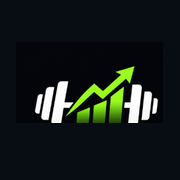
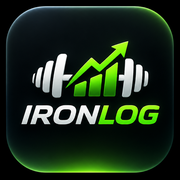
Add files via upload

diff --git a/index.html b/index.html
@@ -1,12 +1,5 @@
-<!doctype html><html lang="en"><head><meta charset="UTF-8"><meta name="viewport" content="width=device-width,initial-scale=1,viewport-fit=cover"><meta name="theme-color" content="#090d13"><link rel="manifest" href="./manifest.webmanifest"><link rel="icon" href="./icon-192.png"><title>IRONLOG — Gym Progress</title><style>
-:root{color-scheme:dark;--bg:#090d13;--surface:#111720;--surface2:#18212c;--line:#27313b;--txt:#eef4f7;--muted:#93a3b3;--green:#a3f04b;--green-dark:#263a1d;--red:#ff8585;--yellow:#ffd079;--blue:#8ebcff}*{box-sizing:border-box}html{scroll-behavior:smooth}body{margin:0;background:var(--bg);color:var(--txt);font-family:Inter,ui-sans-serif,system-ui,-apple-system,Segoe UI,Roboto,sans-serif}button,input,select,textarea{font:inherit}button{cursor:pointer}button:disabled{opacity:.45;cursor:not-allowed}h1,h2,h3,p{margin:0}h1{font-size:clamp(28px,4vw,44px);letter-spacing:-1.7px}h2{font-size:22px;letter-spacing:-.7px}h3{font-size:16px}p{line-height:1.55;color:var(--muted)}.shell{display:grid;grid-template-columns:235px minmax(0,1fr);min-height:100vh}.sidebar{position:sticky;top:0;height:100vh;border-right:1px solid var(--line);background:#0e141b;padding:28px 16px;display:flex;flex-direction:column;gap:36px}.brand{padding:0 2px;min-width:0}
-.eyebrow{font-size:11px;letter-spacing:2px;color:var(--muted);text-transform:uppercase;font-weight:800}
-.ironlog-brand{display:flex;align-items:center;gap:8px;min-width:0}
-.ironlog-brand-full{display:block;width:248px;max-width:100%;height:auto;object-fit:contain}
-.ironlog-top-brand{display:flex;align-items:center;gap:10px;min-width:0}
-.ironlog-top-brand-full{display:block;width:174px;max-width:100%;height:auto;object-fit:contain}
-.ironlog-splash-full{display:block;max-width:100%;width:250px;height:auto;margin:0 auto 8px;object-fit:contain}
-@media(max-width:750px){.ironlog-top-brand-full{width:152px}.ironlog-brand-full{width:220px}.ironlog-splash-full{width:220px}}.nav{display:grid;gap:7px}.nav button{background:transparent;border:0;text-align:left;color:var(--muted);padding:13px 14px;border-radius:11px;font-weight:700}.nav button:hover,.nav button.active{background:#223020;color:var(--green)}.sidebottom{margin-top:auto;padding:12px;border:1px solid var(--line);border-radius:14px;font-size:12px;color:var(--muted)}.sidebottom b{display:block;color:var(--green);font-size:13px;margin-bottom:5px}main{max-width:1550px;width:100%;padding:34px clamp(18px,3.5vw,54px) 96px;margin:auto}.top{display:flex;align-items:center;justify-content:space-between;gap:14px;margin-bottom:30px}.top small{color:var(--muted)}.topright{display:flex;gap:10px;align-items:center}.tag{font-size:11px;padding:7px 11px;border:1px solid #395133;background:#17251b;color:var(--green);border-radius:999px;font-weight:750}.view{display:none;animation:rise .25s ease}.view.active{display:block}@keyframes rise{from{opacity:.4;transform:translateY(7px)}to{opacity:1;transform:translateY(0)}}.sectionhead{display:flex;align-items:center;justify-content:space-between;gap:12px;margin:26px 0 14px}.subline{margin:6px 0 24px}.grid{display:grid;gap:14px}.cols4{grid-template-columns:repeat(4,minmax(0,1fr))}.cols3{grid-template-columns:repeat(3,minmax(0,1fr))}.cols2{grid-template-columns:repeat(2,minmax(0,1fr))}.panel{background:var(--surface);border:1px solid var(--line);border-radius:19px;padding:22px;min-width:0}.panel.soft{background:linear-gradient(130deg,#142217,#101a17)}.stat label,.smalllabel{display:block;color:var(--muted);font-size:12px;margin-bottom:10px}.stat strong{font-size:clamp(22px,3vw,31px);letter-spacing:-1.2px}.stat em{font-style:normal;color:var(--green);font-size:12px}.actions{display:flex;flex-wrap:wrap;gap:10px}.btn{border-radius:11px;border:1px solid var(--line);padding:11px 15px;background:var(--surface2);color:var(--txt);font-size:13px;font-weight:800;transition:.14s}.btn:hover{filter:brightness(1.16)}.btn.primary{background:var(--green);color:#14200d;border-color:var(--green)}.btn.ghost{background:transparent}.btn.danger{color:var(--red);border-color:#654040}.btn.small{padding:7px 10px;font-size:12px}.btn.wide{width:100%}.input,select,textarea{background:#0c1218;color:var(--txt);border:1px solid #34414c;border-radius:10px;padding:11px;width:100%;outline:none;min-width:0}.input:focus,select:focus,textarea:focus{border-color:var(--green)}input[type="checkbox"]{accent-color:var(--green)}input[type="date"]{color-scheme:dark}textarea{resize:vertical;min-height:76px}.field{display:grid;gap:7px}.field label{font-size:12px;color:var(--muted)}.muted{color:var(--muted)}.accent{color:var(--green)}.row{display:flex;align-items:center;justify-content:space-between;gap:12px}.stack{display:grid;gap:14px}.divider{height:1px;background:var(--line);margin:18px 0}.pill{display:inline-flex;align-items:center;padding:5px 9px;border-radius:99px;background:#233322;color:var(--green);font-size:11px;font-weight:900;white-space:nowrap}.pill.subtle{background:#25303d;color:#b5c5d6}.pill.yellow{background:#372e1b;color:var(--yellow)}.exercise-card{border:1px solid var(--line);border-radius:13px;padding:16px;background:#111923}.exercise-card .name{font-weight:800}.workout-ex{padding:17px;border:1px solid var(--line);border-radius:16px;background:#121c24}.setrow{display:grid;grid-template-columns:34px minmax(70px,1fr) minmax(65px,1fr) minmax(65px,.8fr) 68px 32px;gap:8px;align-items:end;margin:9px 0}.setrow input{padding:10px 5px;text-align:center}.setrow label{display:grid;gap:5px;font-size:11px;text-align:center;color:var(--muted)}.tiny{font-size:11px}.historyitem{border:1px solid var(--line);border-radius:13px;padding:15px;margin-bottom:10px;background:var(--surface2)}.historyitem summary{cursor:pointer;font-weight:800;display:flex;justify-content:space-between;gap:10px}.historyitem .details{padding-top:14px}.historyitem .details div{padding:6px 0;color:var(--muted);font-size:13px}.chart{min-height:240px}.chart svg{display:block;width:100%;height:240px;overflow:visible}.chart .axis{stroke:#34424d;stroke-width:1}.chart .tick{fill:#8393a2;font-size:11px}.chart .line{fill:none;stroke:var(--green);stroke-width:3;stroke-linecap:round;stroke-linejoin:round}.chart .dot{fill:var(--green);stroke:#142119;stroke-width:2}.chart .bar{fill:#8dd83e}.chart .gridline{stroke:#2b3540;stroke-dasharray:3 5}.empty{border:1px dashed #3a4652;border-radius:13px;padding:27px;text-align:center;color:var(--muted);line-height:1.6}.dropdownrow{display:flex;align-items:center;gap:10px;flex-wrap:wrap}.dropdownrow select{width:auto;min-width:170px}.metricsbar{background:linear-gradient(100deg,#24391c,#18281d);border:1px solid #496b34;border-radius:16px;padding:16px 20px;margin:20px 0}.metricsbar strong{font-size:24px}.metric{display:flex;align-items:center;justify-content:space-between;gap:10px;padding:11px 0;border-bottom:1px solid var(--line)}.metric:last-child{border:0}.modalbg{position:fixed;inset:0;z-index:50;background:#000c;display:flex;align-items:center;justify-content:center;padding:15px;backdrop-filter:blur(6px)}.modal{background:#141f29;border:1px solid #3b5044;max-width:630px;width:100%;max-height:90vh;overflow:auto;border-radius:22px;padding:26px;box-shadow:0 20px 90px #0009}.modal h2{font-size:29px;margin-bottom:10px}.pricon{font-size:58px;text-align:center}.prdetail{display:flex;gap:10px;justify-content:space-between;border:1px solid #395536;background:#19281b;padding:12px;border-radius:12px;margin:9px 0}.notice{padding:12px 15px;background:#192a1a;border:1px solid #3b5a38;border-radius:11px;color:#c3edaa;font-size:12px}.flash{position:fixed;bottom:24px;right:24px;background:#203322;color:var(--green);border:1px solid #5d863d;border-radius:12px;padding:14px 20px;z-index:70;box-shadow:0 10px 40px #0009}.mobile-nav{display:none}.search{max-width:270px}.settingsnote{font-size:12px;color:var(--muted);padding-top:8px}.timer{font-variant-numeric:tabular-nums;font-weight:900;font-size:28px;color:var(--green)}.inlinechecks{display:flex;align-items:center;gap:8px}.success{color:var(--green)}.dangertext{color:var(--red)}
+<!doctype html><html lang="en"><head><meta charset="UTF-8"><meta name="viewport" content="width=device-width,initial-scale=1,viewport-fit=cover"><meta name="theme-color" content="#090d13"><link rel="manifest" href="./manifest.webmanifest"><link rel="icon" type="image/png" href="./favicon.png"><link rel="apple-touch-icon" sizes="180x180" href="./apple-touch-icon.png"><title>IRONLOG — Gym Progress</title><style>
+:root{color-scheme:dark;--bg:#090d13;--surface:#111720;--surface2:#18212c;--line:#27313b;--txt:#eef4f7;--muted:#93a3b3;--green:#a3f04b;--green-dark:#263a1d;--red:#ff8585;--yellow:#ffd079;--blue:#8ebcff}*{box-sizing:border-box}html{scroll-behavior:smooth}body{margin:0;background:var(--bg);color:var(--txt);font-family:Inter,ui-sans-serif,system-ui,-apple-system,Segoe UI,Roboto,sans-serif}button,input,select,textarea{font:inherit}button{cursor:pointer}button:disabled{opacity:.45;cursor:not-allowed}h1,h2,h3,p{margin:0}h1{font-size:clamp(28px,4vw,44px);letter-spacing:-1.7px}h2{font-size:22px;letter-spacing:-.7px}h3{font-size:16px}p{line-height:1.55;color:var(--muted)}.shell{display:grid;grid-template-columns:235px minmax(0,1fr);min-height:100vh}.sidebar{position:sticky;top:0;height:100vh;border-right:1px solid var(--line);background:#0e141b;padding:28px 16px;display:flex;flex-direction:column;gap:36px}.brand{font-size:24px;letter-spacing:-1.4px;font-weight:900;padding:0 12px}.brand b{color:var(--green)}.eyebrow{font-size:11px;letter-spacing:2px;color:var(--muted);text-transform:uppercase;font-weight:800}.nav{display:grid;gap:7px}.nav button{background:transparent;border:0;text-align:left;color:var(--muted);padding:13px 14px;border-radius:11px;font-weight:700}.nav button:hover,.nav button.active{background:#223020;color:var(--green)}.sidebottom{margin-top:auto;padding:12px;border:1px solid var(--line);border-radius:14px;font-size:12px;color:var(--muted)}.sidebottom b{display:block;color:var(--green);font-size:13px;margin-bottom:5px}main{max-width:1550px;width:100%;padding:34px clamp(18px,3.5vw,54px) 96px;margin:auto}.top{display:flex;align-items:center;justify-content:space-between;gap:14px;margin-bottom:30px}.top small{color:var(--muted)}.topright{display:flex;gap:10px;align-items:center}.tag{font-size:11px;padding:7px 11px;border:1px solid #395133;background:#17251b;color:var(--green);border-radius:999px;font-weight:750}.view{display:none;animation:rise .25s ease}.view.active{display:block}@keyframes rise{from{opacity:.4;transform:translateY(7px)}to{opacity:1;transform:translateY(0)}}.sectionhead{display:flex;align-items:center;justify-content:space-between;gap:12px;margin:26px 0 14px}.subline{margin:6px 0 24px}.grid{display:grid;gap:14px}.cols4{grid-template-columns:repeat(4,minmax(0,1fr))}.cols3{grid-template-columns:repeat(3,minmax(0,1fr))}.cols2{grid-template-columns:repeat(2,minmax(0,1fr))}.panel{background:var(--surface);border:1px solid var(--line);border-radius:19px;padding:22px;min-width:0}.panel.soft{background:linear-gradient(130deg,#142217,#101a17)}.stat label,.smalllabel{display:block;color:var(--muted);font-size:12px;margin-bottom:10px}.stat strong{font-size:clamp(22px,3vw,31px);letter-spacing:-1.2px}.stat em{font-style:normal;color:var(--green);font-size:12px}.actions{display:flex;flex-wrap:wrap;gap:10px}.btn{border-radius:11px;border:1px solid var(--line);padding:11px 15px;background:var(--surface2);color:var(--txt);font-size:13px;font-weight:800;transition:.14s}.btn:hover{filter:brightness(1.16)}.btn.primary{background:var(--green);color:#14200d;border-color:var(--green)}.btn.ghost{background:transparent}.btn.danger{color:var(--red);border-color:#654040}.btn.small{padding:7px 10px;font-size:12px}.btn.wide{width:100%}.input,select,textarea{background:#0c1218;color:var(--txt);border:1px solid #34414c;border-radius:10px;padding:11px;width:100%;outline:none;min-width:0}.input:focus,select:focus,textarea:focus{border-color:var(--green)}input[type="checkbox"]{accent-color:var(--green)}input[type="date"]{color-scheme:dark}textarea{resize:vertical;min-height:76px}.field{display:grid;gap:7px}.field label{font-size:12px;color:var(--muted)}.muted{color:var(--muted)}.accent{color:var(--green)}.row{display:flex;align-items:center;justify-content:space-between;gap:12px}.stack{display:grid;gap:14px}.divider{height:1px;background:var(--line);margin:18px 0}.pill{display:inline-flex;align-items:center;padding:5px 9px;border-radius:99px;background:#233322;color:var(--green);font-size:11px;font-weight:900;white-space:nowrap}.pill.subtle{background:#25303d;color:#b5c5d6}.pill.yellow{background:#372e1b;color:var(--yellow)}.exercise-card{border:1px solid var(--line);border-radius:13px;padding:16px;background:#111923}.exercise-card .name{font-weight:800}.workout-ex{padding:17px;border:1px solid var(--line);border-radius:16px;background:#121c24}.setrow{display:grid;grid-template-columns:34px minmax(70px,1fr) minmax(65px,1fr) minmax(65px,.8fr) 68px 32px;gap:8px;align-items:end;margin:9px 0}.setrow input{padding:10px 5px;text-align:center}.setrow label{display:grid;gap:5px;font-size:11px;text-align:center;color:var(--muted)}.tiny{font-size:11px}.historyitem{border:1px solid var(--line);border-radius:13px;padding:15px;margin-bottom:10px;background:var(--surface2)}.historyitem summary{cursor:pointer;font-weight:800;display:flex;justify-content:space-between;gap:10px}.historyitem .details{padding-top:14px}.historyitem .details div{padding:6px 0;color:var(--muted);font-size:13px}.chart{min-height:240px}.chart svg{display:block;width:100%;height:240px;overflow:visible}.chart .axis{stroke:#34424d;stroke-width:1}.chart .tick{fill:#8393a2;font-size:11px}.chart .line{fill:none;stroke:var(--green);stroke-width:3;stroke-linecap:round;stroke-linejoin:round}.chart .dot{fill:var(--green);stroke:#142119;stroke-width:2}.chart .bar{fill:#8dd83e}.chart .gridline{stroke:#2b3540;stroke-dasharray:3 5}.empty{border:1px dashed #3a4652;border-radius:13px;padding:27px;text-align:center;color:var(--muted);line-height:1.6}.dropdownrow{display:flex;align-items:center;gap:10px;flex-wrap:wrap}.dropdownrow select{width:auto;min-width:170px}.metricsbar{background:linear-gradient(100deg,#24391c,#18281d);border:1px solid #496b34;border-radius:16px;padding:16px 20px;margin:20px 0}.metricsbar strong{font-size:24px}.metric{display:flex;align-items:center;justify-content:space-between;gap:10px;padding:11px 0;border-bottom:1px solid var(--line)}.metric:last-child{border:0}.modalbg{position:fixed;inset:0;z-index:50;background:#000c;display:flex;align-items:center;justify-content:center;padding:15px;backdrop-filter:blur(6px)}.modal{background:#141f29;border:1px solid #3b5044;max-width:630px;width:100%;max-height:90vh;overflow:auto;border-radius:22px;padding:26px;box-shadow:0 20px 90px #0009}.modal h2{font-size:29px;margin-bottom:10px}.pricon{font-size:58px;text-align:center}.prdetail{display:flex;gap:10px;justify-content:space-between;border:1px solid #395536;background:#19281b;padding:12px;border-radius:12px;margin:9px 0}.notice{padding:12px 15px;background:#192a1a;border:1px solid #3b5a38;border-radius:11px;color:#c3edaa;font-size:12px}.flash{position:fixed;bottom:24px;right:24px;background:#203322;color:var(--green);border:1px solid #5d863d;border-radius:12px;padding:14px 20px;z-index:70;box-shadow:0 10px 40px #0009}.mobile-nav{display:none}.search{max-width:270px}.settingsnote{font-size:12px;color:var(--muted);padding-top:8px}.timer{font-variant-numeric:tabular-nums;font-weight:900;font-size:28px;color:var(--green)}.inlinechecks{display:flex;align-items:center;gap:8px}.success{color:var(--green)}.dangertext{color:var(--red)}
 @media(max-width:1100px){.cols4{grid-template-columns:repeat(2,minmax(0,1fr))}.cols3{grid-template-columns:repeat(2,minmax(0,1fr))}}@media(max-width:750px){.shell{display:block}.sidebar{display:none}main{padding:22px 14px 100px}.top{margin-bottom:23px}.top small{display:none}.mobile-nav{position:fixed;display:flex;bottom:0;left:0;right:0;z-index:30;background:#0d141bf5;border-top:1px solid var(--line);padding:8px 5px calc(9px + env(safe-area-inset-bottom));justify-content:space-around}.mobile-nav button{background:transparent;border:0;color:#9aaaac;font-size:10px;display:grid;gap:5px;place-items:center}.mobile-nav button b{font-size:21px}.mobile-nav button.active{color:var(--green)}.cols4,.cols3,.cols2{grid-template-columns:1fr}.panel{padding:17px}.stat strong{font-size:27px}.setrow{grid-template-columns:25px minmax(55px,1fr) minmax(55px,1fr) minmax(50px,.85fr) 50px 26px;gap:4px}.setrow label{font-size:10px}.setrow input{padding:9px 2px}.search{max-width:100%}.sectionhead{align-items:flex-start;flex-wrap:wrap}.modal{padding:18px}.topright .tag{display:inline-block;font-size:9px;padding:5px 7px}.topright{gap:5px}.topright .btn{font-size:10px;padding:8px 6px}}
 
 /* IRONLOG mobile refresh: comfortable, thumb-friendly workout logging. */
@@ -148,8 +141,8 @@ body, .shell, main, .view, .panel, .grid, .field, .workout-ex, .set-entry { min-
  main { padding-left:20px; padding-right:20px; }
 }
 </style></head><body>
-<div class="shell"><aside class="sidebar"><div class="brand ironlog-brand"><div class="ironlog-brand-text"><img class="ironlog-brand-full" src="./ironlog-brand-full.png" alt="IRONLOG" width="248" height="140"><div class="eyebrow" style="margin-top:6px;letter-spacing:1px;padding-left:2px">TRAIN. TRACK. PROGRESS.</div></div></div><nav class="nav" id="nav"></nav><div class="sidebottom"><b>● <span id="side-sync-label">LOCAL ONLY</span></b><span id="side-sync-detail">Saved instantly on this device. Google sign-in enables cloud sync.</span></div></aside><main><header class="top"><div class="ironlog-top-brand"><img src="./ironlog-brand-full.png" alt="IRONLOG" class="ironlog-top-brand-full" width="174" height="98"></div><div class="topright"><span class="tag" id="sync-status" aria-live="polite">● Local only</span><button class="btn small" onclick="navigate('settings')" aria-label="Cloud account and settings">⚙ Settings</button><button class="btn small" onclick="exportAll()">Export backup ↗</button></div></header>
-<section class="view active" id="dashboard"></section><section class="view" id="workout"></section><section class="view" id="exercises"></section><section class="view" id="analytics"></section><section class="view" id="history"></section><section class="view" id="body"></section><section class="view" id="settings"></section></main></div><nav class="mobile-nav" id="mobile-nav"></nav><div id="modalroot"></div><div id="toastroot"></div><div class="auth-shield" id="auth-shield" role="status" aria-live="polite"><div class="auth-shield-card"><img class="ironlog-splash-full" src="./ironlog-brand-full.png" alt="IRONLOG" width="250" height="142"><p id="auth-shield-message">Checking your account…</p><div id="auth-shield-actions" style="display:none;margin-top:18px"><button class="btn primary" type="button" onclick="location.reload()">Retry connection</button><p style="font-size:12px;line-height:1.6;max-width:310px;margin:14px auto 0;color:#9dafc0">If this continues, check your internet connection and refresh the installed website. Your account data is kept separate.</p></div></div></div></div>
+<div class="shell"><aside class="sidebar"><div class="brand">IRON<b>LOG</b><div class="eyebrow" style="margin-top:6px;letter-spacing:1px">TRAIN. TRACK. PROGRESS.</div></div><nav class="nav" id="nav"></nav><div class="sidebottom"><b>● <span id="side-sync-label">LOCAL ONLY</span></b><span id="side-sync-detail">Saved instantly on this device. Google sign-in enables cloud sync.</span></div></aside><main><header class="top"><div><div class="eyebrow">IRONLOG / <span id="page-label">OVERVIEW</span></div></div><div class="topright"><span class="tag" id="sync-status" aria-live="polite">● Local only</span><button class="btn small" onclick="navigate('settings')" aria-label="Cloud account and settings">⚙ Settings</button><button class="btn small" onclick="exportAll()">Export backup ↗</button></div></header>
+<section class="view active" id="dashboard"></section><section class="view" id="workout"></section><section class="view" id="exercises"></section><section class="view" id="analytics"></section><section class="view" id="history"></section><section class="view" id="body"></section><section class="view" id="settings"></section></main></div><nav class="mobile-nav" id="mobile-nav"></nav><div id="modalroot"></div><div id="toastroot"></div><div class="auth-shield" id="auth-shield" role="status" aria-live="polite"><div class="auth-shield-card"><b>IRON<span>LOG</span></b><p id="auth-shield-message">Checking your account…</p><div id="auth-shield-actions" style="display:none;margin-top:18px"><button class="btn primary" type="button" onclick="location.reload()">Retry connection</button><p style="font-size:12px;line-height:1.6;max-width:310px;margin:14px auto 0;color:#9dafc0">If this continues, check your internet connection and refresh the installed website. Your account data is kept separate.</p></div></div></div>
 <script>
 'use strict';
 const ACCOUNT_PREFIX='ironlog_uid_v3_';let KEY=ACCOUNT_PREFIX+'guest_data',DRAFT=ACCOUNT_PREFIX+'guest_draft';const TABS=[['dashboard','▦','Dashboard'],['workout','＋','Workout'],['exercises','▤','Exercises'],['analytics','⌁','Analytics'],['history','◷','History'],['body','⚖','Body'],['settings','⚙','Settings']];const starter=[['Bench Press','PUSH','Chest'],['Incline Dumbbell Press','PUSH','Chest'],['Overhead Press','PUSH','Shoulders'],['Lateral Raise','PUSH','Shoulders'],['Triceps Pushdown','PUSH','Triceps'],['Pull Up','PULL','Back'],['Lat Pulldown','PULL','Back'],['Barbell Row','PULL','Back'],['Seated Cable Row','PULL','Back'],['Biceps Curl','PULL','Biceps'],['Barbell Squat','LEGS','Quads'],['Leg Press','LEGS','Quads'],['Romanian Deadlift','LEGS','Hamstrings'],['Leg Curl','LEGS','Hamstrings'],['Leg Extension','LEGS','Quads'],['Calf Raise','LEGS','Calves']];

diff --git a/sw.js b/sw.js
@@ -1,5 +1,5 @@
-const CACHE = 'ironlog-shell-v12-selected-logo';
-const SHELL = ['./', './index.html', './firebase-sync.js', './firebase-config.js', './manifest.webmanifest', './icon-192.png', './icon-512.png', './apple-touch-icon.png', './ironlog-mark.png', './ironlog-wordmark.png'];
+const CACHE = 'ironlog-shell-v13-icons-only';
+const SHELL = ['./', './index.html', './firebase-sync.js', './firebase-config.js', './manifest.webmanifest', './icon-192.png', './icon-512.png', './favicon.png', './apple-touch-icon.png', './ironlog-mark.png', './ironlog-wordmark.png'];
 self.addEventListener('install', event => {
   event.waitUntil(caches.open(CACHE).then(cache => cache.addAll(SHELL)).then(() => self.skipWaiting()));
 });
